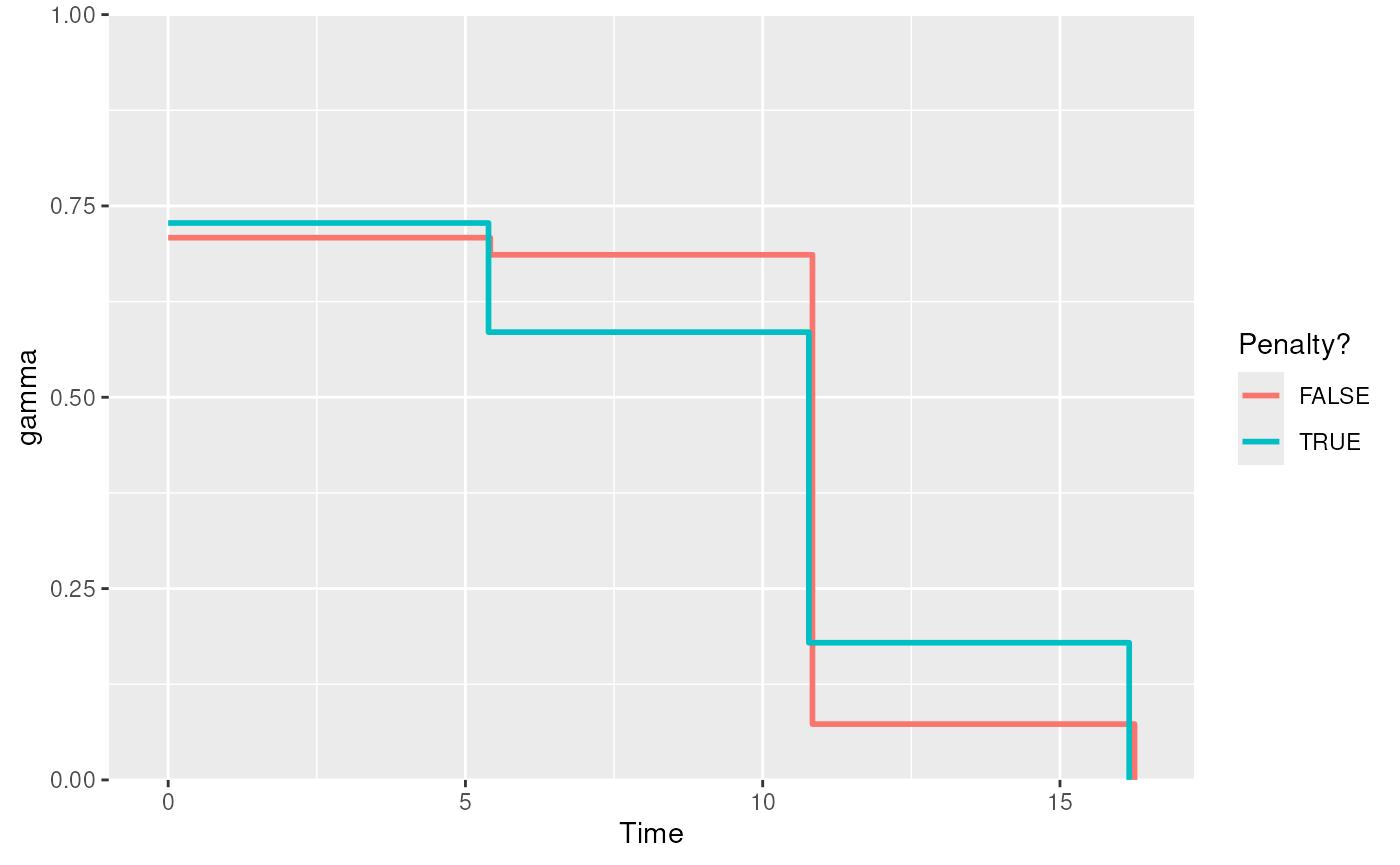
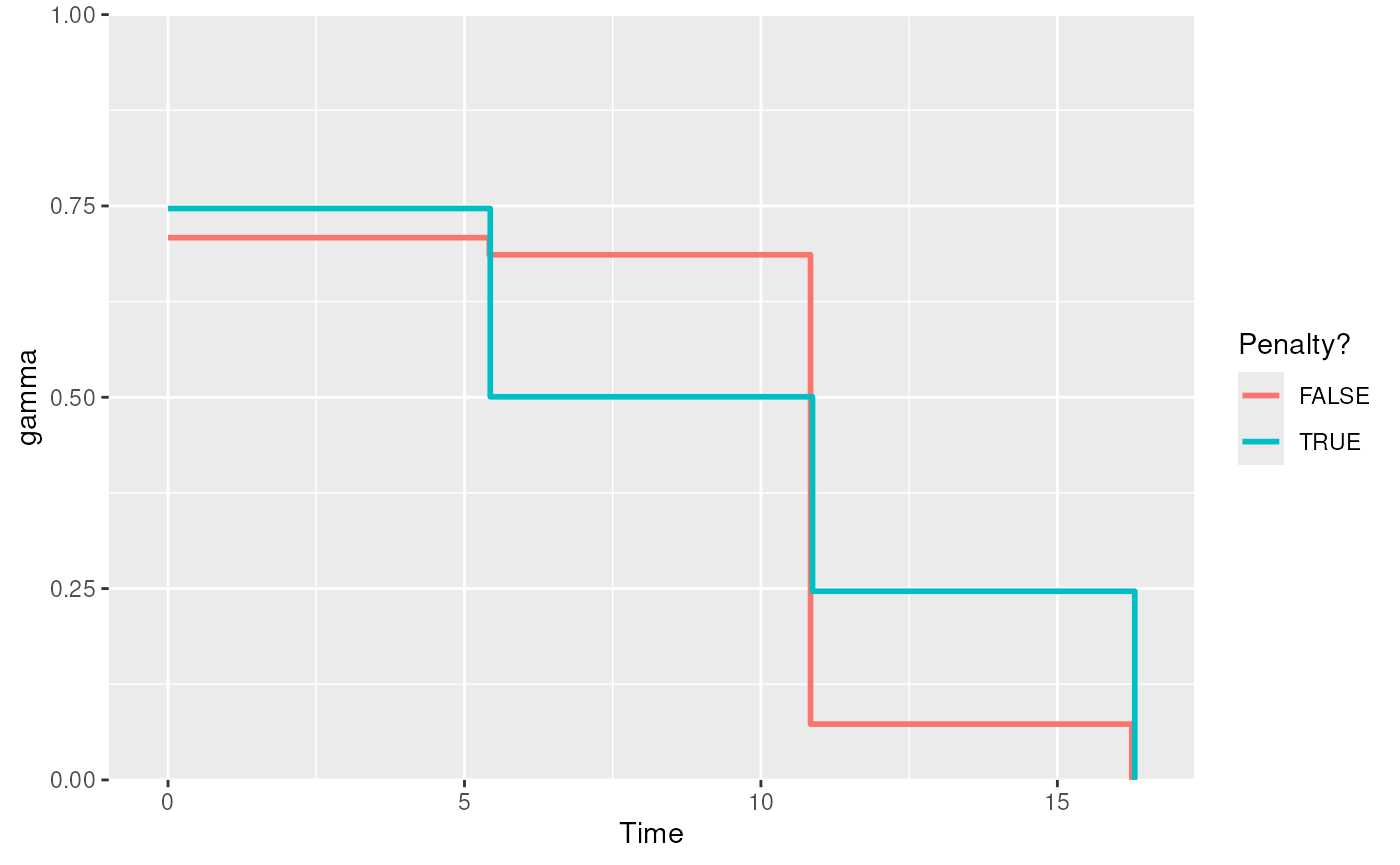
Deploying to gh-pages from @ ssi-dk/diseasy@40000a73c975b4c6fd050a741287bca9cff155ab 🚀

Changed region(s): [[0.1229, 0.2185, 0.8293, 0.9052], [0.7371, 0.9052, 0.7679, 0.9364], [0.5221, 0.9052, 0.5529, 0.9364]]

diff --git a/articles/SEIR-initialisation.html b/articles/SEIR-initialisation.html
@@ -424,16 +424,16 @@ a reduced probability of testing during weekends.</li>
 <span><span class="co">#&gt; <span style="color: #949494;"># A tibble: 1,500 × 6</span></span></span>
 <span><span class="co">#&gt;    date       age_group variant n_infected n_positive_simple n_positive</span></span>
 <span><span class="co">#&gt;    <span style="color: #949494; font-style: italic;">&lt;date&gt;</span>     <span style="color: #949494; font-style: italic;">&lt;chr&gt;</span>     <span style="color: #949494; font-style: italic;">&lt;chr&gt;</span>        <span style="color: #949494; font-style: italic;">&lt;dbl&gt;</span>             <span style="color: #949494; font-style: italic;">&lt;dbl&gt;</span>      <span style="color: #949494; font-style: italic;">&lt;dbl&gt;</span></span></span>
-<span><span class="co">#&gt; <span style="color: #BCBCBC;"> 1</span> 2020-01-03 00-29     WT            68.0                42         42</span></span>
-<span><span class="co">#&gt; <span style="color: #BCBCBC;"> 2</span> 2020-01-04 00-29     WT           145.                 94         69</span></span>
-<span><span class="co">#&gt; <span style="color: #BCBCBC;"> 3</span> 2020-01-05 00-29     WT           191.                122         93</span></span>
-<span><span class="co">#&gt; <span style="color: #BCBCBC;"> 4</span> 2020-01-06 00-29     WT           220.                142        149</span></span>
-<span><span class="co">#&gt; <span style="color: #BCBCBC;"> 5</span> 2020-01-07 00-29     WT           242.                152        163</span></span>
-<span><span class="co">#&gt; <span style="color: #BCBCBC;"> 6</span> 2020-01-08 00-29     WT           265.                169        180</span></span>
-<span><span class="co">#&gt; <span style="color: #BCBCBC;"> 7</span> 2020-01-09 00-29     WT           289.                189        203</span></span>
-<span><span class="co">#&gt; <span style="color: #BCBCBC;"> 8</span> 2020-01-10 00-29     WT           315.                191        207</span></span>
-<span><span class="co">#&gt; <span style="color: #BCBCBC;"> 9</span> 2020-01-11 00-29     WT           343.                231        176</span></span>
-<span><span class="co">#&gt; <span style="color: #BCBCBC;">10</span> 2020-01-12 00-29     WT           374.                236        174</span></span>
+<span><span class="co">#&gt; <span style="color: #BCBCBC;"> 1</span> 2020-01-03 30-59     WT            64.2                37         41</span></span>
+<span><span class="co">#&gt; <span style="color: #BCBCBC;"> 2</span> 2020-01-04 30-59     WT           136.                 85         64</span></span>
+<span><span class="co">#&gt; <span style="color: #BCBCBC;"> 3</span> 2020-01-05 30-59     WT           179.                107         79</span></span>
+<span><span class="co">#&gt; <span style="color: #BCBCBC;"> 4</span> 2020-01-06 30-59     WT           203.                136        138</span></span>
+<span><span class="co">#&gt; <span style="color: #BCBCBC;"> 5</span> 2020-01-07 30-59     WT           221.                137        144</span></span>
+<span><span class="co">#&gt; <span style="color: #BCBCBC;"> 6</span> 2020-01-08 30-59     WT           239.                159        169</span></span>
+<span><span class="co">#&gt; <span style="color: #BCBCBC;"> 7</span> 2020-01-09 30-59     WT           257.                170        181</span></span>
+<span><span class="co">#&gt; <span style="color: #BCBCBC;"> 8</span> 2020-01-10 30-59     WT           278.                188        196</span></span>
+<span><span class="co">#&gt; <span style="color: #BCBCBC;"> 9</span> 2020-01-11 30-59     WT           301.                203        159</span></span>
+<span><span class="co">#&gt; <span style="color: #BCBCBC;">10</span> 2020-01-12 30-59     WT           325.                198        142</span></span>
 <span><span class="co">#&gt; <span style="color: #949494;"># ℹ 1,490 more rows</span></span></span></code></pre></div>
 <div class="sourceCode" id="cb5"><pre class="downlit sourceCode r">
 <code class="sourceCode R"><span><span class="co"># Visualise the example data</span></span>

diff --git a/articles/diseasy-immunity.html b/articles/diseasy-immunity.html
@@ -135,7 +135,7 @@ the following code.</p>
 <span><span class="co">#&gt; $infection</span></span>
 <span><span class="co">#&gt; function (t) </span></span>
 <span><span class="co">#&gt; 1</span></span>
-<span><span class="co">#&gt; &lt;environment: 0x55ce950d4a88&gt;</span></span>
+<span><span class="co">#&gt; &lt;environment: 0x558322ba41d8&gt;</span></span>
 <span><span class="co">#&gt; attr(,"name")</span></span>
 <span><span class="co">#&gt; [1] "no_waning"</span></span></code></pre></div>
 <p>This returns a <code>named list()</code> where the named target are
@@ -173,7 +173,7 @@ given &lt;code&gt;&lt;a href="../reference/DiseasyImmunity.html"&gt;?DiseasyImmu
 <span><span class="co">#&gt; $infection</span></span>
 <span><span class="co">#&gt; function (t) </span></span>
 <span><span class="co">#&gt; exp(-(t - time_scale)/shape)/(1 + exp(-(t - time_scale)/shape))</span></span>
-<span><span class="co">#&gt; &lt;environment: 0x55ce967e4110&gt;</span></span>
+<span><span class="co">#&gt; &lt;environment: 0x5583242a91e0&gt;</span></span>
 <span><span class="co">#&gt; attr(,"name")</span></span>
 <span><span class="co">#&gt; [1] "sigmoidal_waning"</span></span>
 <span><span class="co">#&gt; attr(,"dots")</span></span>
@@ -218,7 +218,7 @@ identification. Default is “custom_waning”.</li>
 <span><span class="co">#&gt; $hospitalisation</span></span>
 <span><span class="co">#&gt; function (t) </span></span>
 <span><span class="co">#&gt; 0.8 * exp(-(t/time_scale)^2) + 0.2</span></span>
-<span><span class="co">#&gt; &lt;environment: 0x55ce975b00f0&gt;</span></span>
+<span><span class="co">#&gt; &lt;environment: 0x558325078e50&gt;</span></span>
 <span><span class="co">#&gt; attr(,"name")</span></span>
 <span><span class="co">#&gt; [1] "gaussian_waning"</span></span>
 <span><span class="co">#&gt; attr(,"dots")</span></span>
@@ -256,8 +256,8 @@ additional arguments.</p>
 <span><span class="co">#&gt; $infection</span></span>
 <span><span class="co">#&gt; function (t) </span></span>
 <span><span class="co">#&gt; exp(-(t - time_scale)/shape)/(1 + exp(-(t - time_scale)/shape))</span></span>
-<span><span class="co">#&gt; &lt;bytecode: 0x55ce989aaae0&gt;</span></span>
-<span><span class="co">#&gt; &lt;environment: 0x55ce984b11b0&gt;</span></span>
+<span><span class="co">#&gt; &lt;bytecode: 0x5583264757c0&gt;</span></span>
+<span><span class="co">#&gt; &lt;environment: 0x558325f7de30&gt;</span></span>
 <span><span class="co">#&gt; attr(,"name")</span></span>
 <span><span class="co">#&gt; [1] "sigmoidal_waning"</span></span>
 <span><span class="co">#&gt; attr(,"dots")</span></span>
@@ -275,7 +275,7 @@ additional arguments.</p>
 <span><span class="co">#&gt; $hospitalisation</span></span>
 <span><span class="co">#&gt; function (t) </span></span>
 <span><span class="co">#&gt; 0.8 * exp(-(t/time_scale)^2) + 0.2</span></span>
-<span><span class="co">#&gt; &lt;environment: 0x55ce99151298&gt;</span></span>
+<span><span class="co">#&gt; &lt;environment: 0x558326c1bd18&gt;</span></span>
 <span><span class="co">#&gt; attr(,"name")</span></span>
 <span><span class="co">#&gt; [1] "gaussian_waning"</span></span>
 <span><span class="co">#&gt; attr(,"dots")</span></span>
@@ -299,7 +299,7 @@ targets in the current models.</p>
 <span><span class="co">#&gt; $infection</span></span>
 <span><span class="co">#&gt; function (t) </span></span>
 <span><span class="co">#&gt; exp(-(t - time_scale)/shape)/(1 + exp(-(t - time_scale)/shape))</span></span>
-<span><span class="co">#&gt; &lt;environment: 0x55ce984b11b0&gt;</span></span>
+<span><span class="co">#&gt; &lt;environment: 0x558325f7de30&gt;</span></span>
 <span><span class="co">#&gt; attr(,"name")</span></span>
 <span><span class="co">#&gt; [1] "sigmoidal_waning"</span></span>
 <span><span class="co">#&gt; attr(,"dots")</span></span>
@@ -310,7 +310,7 @@ targets in the current models.</p>
 <span><span class="co">#&gt; $hospitalisation</span></span>
 <span><span class="co">#&gt; function (t) </span></span>
 <span><span class="co">#&gt; 0.8 * exp(-(t/time_scale)^2) + 0.2</span></span>
-<span><span class="co">#&gt; &lt;environment: 0x55ce99151298&gt;</span></span>
+<span><span class="co">#&gt; &lt;environment: 0x558326c1bd18&gt;</span></span>
 <span><span class="co">#&gt; attr(,"name")</span></span>
 <span><span class="co">#&gt; [1] "gaussian_waning"</span></span>
 <span><span class="co">#&gt; attr(,"dots")</span></span>
@@ -518,7 +518,7 @@ hospitalisation targets defined earlier, which will be approximated.</p>
 <span><span class="co">#&gt; [1] 0</span></span>
 <span><span class="co">#&gt; </span></span>
 <span><span class="co">#&gt; $execution_time</span></span>
-<span><span class="co">#&gt; [1] "1M 11.1536839008331S"</span></span>
+<span><span class="co">#&gt; [1] "1M 12.2756991386414S"</span></span>
 <span><span class="co">#&gt; </span></span>
 <span><span class="co">#&gt; attr(,"class")</span></span>
 <span><span class="co">#&gt; [1] "ucminf"</span></span>

diff --git a/articles/creating-ensembles.html b/articles/creating-ensembles.html
@@ -194,7 +194,7 @@ instances which we give the class <code>DiseasyEnsemble</code>.</p>
 functions to get a quick overview of the ensemble.</p>
 <div class="sourceCode" id="cb3"><pre class="downlit sourceCode r">
 <code class="sourceCode R"><span><span class="fu"><a href="../reference/print.html">print</a></span><span class="op">(</span><span class="va">ensemble</span><span class="op">)</span></span>
-<span><span class="co">#&gt; DiseasyEnsemble: DiseasyModelG1 (hash: 84525), DiseasyModelG1 (hash: 66f53), DiseasyModelG1 (hash: 962db)</span></span></code></pre></div>
+<span><span class="co">#&gt; DiseasyEnsemble: DiseasyModelG1 (hash: 9ab10), DiseasyModelG1 (hash: 3cc9d), DiseasyModelG1 (hash: 3e2a1)</span></span></code></pre></div>
 <div class="sourceCode" id="cb4"><pre class="downlit sourceCode r">
 <code class="sourceCode R"><span><span class="fu"><a href="https://rdrr.io/r/base/summary.html" class="external-link">summary</a></span><span class="op">(</span><span class="va">ensemble</span><span class="op">)</span></span>
 <span><span class="co">#&gt; DiseasyEnsemble consisting of:</span></span>
@@ -213,12 +213,12 @@ least specify the following:</p>
 <span><span class="co">#&gt; <span style="color: #949494;"># A tibble: 6 × 5</span></span></span>
 <span><span class="co">#&gt;   date       n_positive realisation_id weight model                           </span></span>
 <span><span class="co">#&gt;   <span style="color: #949494; font-style: italic;">&lt;date&gt;</span>          <span style="color: #949494; font-style: italic;">&lt;dbl&gt;</span> <span style="color: #949494; font-style: italic;">&lt;chr&gt;</span>           <span style="color: #949494; font-style: italic;">&lt;dbl&gt;</span> <span style="color: #949494; font-style: italic;">&lt;chr&gt;</span>                           </span></span>
-<span><span class="co">#&gt; <span style="color: #BCBCBC;">1</span> 2021-03-28      <span style="text-decoration: underline;">2</span>132. 1                   1 845255d2f6d1811c1a22e2964695fdb2</span></span>
-<span><span class="co">#&gt; <span style="color: #BCBCBC;">2</span> 2021-03-29      <span style="text-decoration: underline;">1</span>719. 1                   1 845255d2f6d1811c1a22e2964695fdb2</span></span>
-<span><span class="co">#&gt; <span style="color: #BCBCBC;">3</span> 2021-03-30      <span style="text-decoration: underline;">2</span>432. 1                   1 845255d2f6d1811c1a22e2964695fdb2</span></span>
-<span><span class="co">#&gt; <span style="color: #BCBCBC;">4</span> 2021-03-31      <span style="text-decoration: underline;">2</span>555. 1                   1 845255d2f6d1811c1a22e2964695fdb2</span></span>
-<span><span class="co">#&gt; <span style="color: #BCBCBC;">5</span> 2021-04-01      <span style="text-decoration: underline;">2</span>163. 1                   1 845255d2f6d1811c1a22e2964695fdb2</span></span>
-<span><span class="co">#&gt; <span style="color: #BCBCBC;">6</span> 2021-04-02      <span style="text-decoration: underline;">1</span>253. 1                   1 845255d2f6d1811c1a22e2964695fdb2</span></span></code></pre></div>
+<span><span class="co">#&gt; <span style="color: #BCBCBC;">1</span> 2021-03-28      <span style="text-decoration: underline;">2</span>132. 1                   1 9ab104aab393137d26d1c896595457c3</span></span>
+<span><span class="co">#&gt; <span style="color: #BCBCBC;">2</span> 2021-03-29      <span style="text-decoration: underline;">1</span>719. 1                   1 9ab104aab393137d26d1c896595457c3</span></span>
+<span><span class="co">#&gt; <span style="color: #BCBCBC;">3</span> 2021-03-30      <span style="text-decoration: underline;">2</span>432. 1                   1 9ab104aab393137d26d1c896595457c3</span></span>
+<span><span class="co">#&gt; <span style="color: #BCBCBC;">4</span> 2021-03-31      <span style="text-decoration: underline;">2</span>555. 1                   1 9ab104aab393137d26d1c896595457c3</span></span>
+<span><span class="co">#&gt; <span style="color: #BCBCBC;">5</span> 2021-04-01      <span style="text-decoration: underline;">2</span>163. 1                   1 9ab104aab393137d26d1c896595457c3</span></span>
+<span><span class="co">#&gt; <span style="color: #BCBCBC;">6</span> 2021-04-02      <span style="text-decoration: underline;">1</span>253. 1                   1 9ab104aab393137d26d1c896595457c3</span></span></code></pre></div>
 <div class="sourceCode" id="cb6"><pre class="downlit sourceCode r">
 <code class="sourceCode R"><span><span class="fu"><a href="../reference/plot.html">plot</a></span><span class="op">(</span><span class="va">ensemble</span>, observable <span class="op">=</span> <span class="st">"n_positive"</span>, prediction_length <span class="op">=</span> <span class="fl">30</span><span class="op">)</span></span></code></pre></div>
 <p><img src="creating-ensembles_files/figure-html/unnamed-chunk-7-1.png" class="r-plt" alt="Plot of the ensemble predictions. Shaded area is ensemble quantiles with observations as points." width="700"></p>
@@ -297,7 +297,7 @@ parameter settings from before.</p>
 models:</p>
 <div class="sourceCode" id="cb11"><pre class="downlit sourceCode r">
 <code class="sourceCode R"><span><span class="fu"><a href="../reference/print.html">print</a></span><span class="op">(</span><span class="va">ensemble</span><span class="op">)</span></span>
-<span><span class="co">#&gt; DiseasyEnsemble: DiseasyModelG0 (hash: 34d9b), DiseasyModelG0 (hash: 35797), DiseasyModelG0 (hash: 50f16), DiseasyModelG1 (hash: 84525), DiseasyModelG1 (hash: 66f53)</span></span></code></pre></div>
+<span><span class="co">#&gt; DiseasyEnsemble: DiseasyModelG0 (hash: f06a8), DiseasyModelG0 (hash: 5a717), DiseasyModelG0 (hash: bc708), DiseasyModelG1 (hash: 9ab10), DiseasyModelG1 (hash: 3cc9d)</span></span></code></pre></div>
 <div class="sourceCode" id="cb12"><pre class="downlit sourceCode r">
 <code class="sourceCode R"><span><span class="fu"><a href="https://rdrr.io/r/base/summary.html" class="external-link">summary</a></span><span class="op">(</span><span class="va">ensemble</span><span class="op">)</span></span>
 <span><span class="co">#&gt; DiseasyEnsemble consisting of:</span></span>

diff --git a/articles/SEIR-implementation.html b/articles/SEIR-implementation.html
@@ -860,11 +860,11 @@ demographic groups and one variant.</p>
 <span>  check <span class="op">=</span> <span class="st">"equal"</span>, times <span class="op">=</span> <span class="fl">1000L</span></span>
 <span><span class="op">)</span></span>
 <span><span class="co">#&gt; Unit: microseconds</span></span>
-<span><span class="co">#&gt;                expr    min      lq      mean  median      uq      max neval</span></span>
-<span><span class="co">#&gt;      purrr::map_dbl 25.187 27.4260 29.363751 28.4680 29.7655  112.770  1000</span></span>
-<span><span class="co">#&gt;              sapply 12.834 13.4450 14.527211 13.8760 14.7975   42.148  1000</span></span>
-<span><span class="co">#&gt;  sapply - USE.NAMES 12.834 13.4205 16.678962 13.8355 14.7625 2264.416  1000</span></span>
-<span><span class="co">#&gt;              vapply  4.859  5.3300  5.699486  5.5700  5.7910   20.248  1000</span></span></code></pre></div>
+<span><span class="co">#&gt;                expr    min      lq      mean median     uq      max neval</span></span>
+<span><span class="co">#&gt;      purrr::map_dbl 24.586 26.7450 28.615469 27.992 28.884  108.462  1000</span></span>
+<span><span class="co">#&gt;              sapply 12.734 13.2955 14.269691 13.675 14.557   43.551  1000</span></span>
+<span><span class="co">#&gt;  sapply - USE.NAMES 12.753 13.2650 15.871272 13.616 14.507 1757.362  1000</span></span>
+<span><span class="co">#&gt;              vapply  4.809  5.3395  5.720159  5.620  5.841   25.708  1000</span></span></code></pre></div>
 <p>Note, that the best performing function in this case is
 <code><a href="https://rdrr.io/r/base/lapply.html" class="external-link">vapply()</a></code>.</p>
 </div>

diff --git a/reference/DiseasyImmunity.html b/reference/DiseasyImmunity.html
@@ -530,7 +530,7 @@ Number of compartments to be used in the model.</p></dd>
 <span class="r-out co"><span class="r-pr">#&gt;</span> $infection</span>
 <span class="r-out co"><span class="r-pr">#&gt;</span> function (t) </span>
 <span class="r-out co"><span class="r-pr">#&gt;</span> exp(-t/time_scale)</span>
-<span class="r-out co"><span class="r-pr">#&gt;</span> &lt;environment: 0x555d6f3f3228&gt;</span>
+<span class="r-out co"><span class="r-pr">#&gt;</span> &lt;environment: 0x561c9d830a90&gt;</span>
 <span class="r-out co"><span class="r-pr">#&gt;</span> attr(,"name")</span>
 <span class="r-out co"><span class="r-pr">#&gt;</span> [1] "exponential_waning"</span>
 <span class="r-out co"><span class="r-pr">#&gt;</span> attr(,"dots")</span>
@@ -542,7 +542,7 @@ Number of compartments to be used in the model.</p></dd>
 <span class="r-out co"><span class="r-pr">#&gt;</span> $infection</span>
 <span class="r-out co"><span class="r-pr">#&gt;</span> function (t) </span>
 <span class="r-out co"><span class="r-pr">#&gt;</span> exp(-t/time_scale)</span>
-<span class="r-out co"><span class="r-pr">#&gt;</span> &lt;environment: 0x555d6f3f3228&gt;</span>
+<span class="r-out co"><span class="r-pr">#&gt;</span> &lt;environment: 0x561c9d830a90&gt;</span>
 <span class="r-out co"><span class="r-pr">#&gt;</span> attr(,"name")</span>
 <span class="r-out co"><span class="r-pr">#&gt;</span> [1] "exponential_waning"</span>
 <span class="r-out co"><span class="r-pr">#&gt;</span> attr(,"dots")</span>

diff --git a/articles/diseasy-model-ode.html b/articles/diseasy-model-ode.html
@@ -308,7 +308,7 @@ infection:</p>
 <span><span class="co">#&gt; $infection</span></span>
 <span><span class="co">#&gt; function (t) </span></span>
 <span><span class="co">#&gt; exp(-t/time_scale)</span></span>
-<span><span class="co">#&gt; &lt;environment: 0x5595972fbf18&gt;</span></span>
+<span><span class="co">#&gt; &lt;environment: 0x561f067c7b28&gt;</span></span>
 <span><span class="co">#&gt; attr(,"name")</span></span>
 <span><span class="co">#&gt; [1] "exponential_waning"</span></span>
 <span><span class="co">#&gt; attr(,"dots")</span></span>

diff --git a/reference/DiseasyEnsemble-generics.html b/reference/DiseasyEnsemble-generics.html
@@ -176,7 +176,7 @@ date, stratification and model (optional).</p>
 <span class="r-in"><span>  <span class="op">)</span></span></span>
 <span class="r-in"><span></span></span>
 <span class="r-in"><span>  <span class="fu"><a href="print.html">print</a></span><span class="op">(</span><span class="va">ensemble</span><span class="op">)</span></span></span>
-<span class="r-out co"><span class="r-pr">#&gt;</span> DiseasyEnsemble: DiseasyModelG0 (hash: ff1e1), DiseasyModelG1 (hash: 37bb9) </span>
+<span class="r-out co"><span class="r-pr">#&gt;</span> DiseasyEnsemble: DiseasyModelG0 (hash: c67d8), DiseasyModelG1 (hash: 112ae) </span>
 <span class="r-in"><span></span></span>
 <span class="r-in"><span>  <span class="fu"><a href="https://rdrr.io/r/base/summary.html" class="external-link">summary</a></span><span class="op">(</span><span class="va">ensemble</span><span class="op">)</span></span></span>
 <span class="r-out co"><span class="r-pr">#&gt;</span> DiseasyEnsemble consisting of:</span>

diff --git a/reference/combineasy.html b/reference/combineasy.html
@@ -120,7 +120,7 @@ The combination of parameters to set in the model instances (generated by <code>
 <span class="r-in"><span>  <span class="op">)</span></span></span>
 <span class="r-in"><span></span></span>
 <span class="r-in"><span>  <span class="fu"><a href="print.html">print</a></span><span class="op">(</span><span class="va">ensemble</span><span class="op">)</span></span></span>
-<span class="r-out co"><span class="r-pr">#&gt;</span> DiseasyEnsemble: DiseasyModelG1 (hash: 4b832) </span>
+<span class="r-out co"><span class="r-pr">#&gt;</span> DiseasyEnsemble: DiseasyModelG1 (hash: 2d69c) </span>
 <span class="r-in"><span></span></span>
 <span class="r-in"><span>  <span class="fu"><a href="https://rdrr.io/r/base/summary.html" class="external-link">summary</a></span><span class="op">(</span><span class="va">ensemble</span><span class="op">)</span></span></span>
 <span class="r-out co"><span class="r-pr">#&gt;</span> DiseasyEnsemble consisting of:</span>

diff --git a/reference/plot.html b/reference/plot.html
@@ -106,7 +106,7 @@ See the <code>$plot()</code> method for each module</p></dd>
 <span class="r-out co"><span class="r-pr">#&gt;</span> $hospitalisation</span>
 <span class="r-out co"><span class="r-pr">#&gt;</span> function (t) </span>
 <span class="r-out co"><span class="r-pr">#&gt;</span> exp(-t/time_scale)</span>
-<span class="r-out co"><span class="r-pr">#&gt;</span> &lt;environment: 0x555d64a43ad8&gt;</span>
+<span class="r-out co"><span class="r-pr">#&gt;</span> &lt;environment: 0x561c94bb0b50&gt;</span>
 <span class="r-out co"><span class="r-pr">#&gt;</span> attr(,"name")</span>
 <span class="r-out co"><span class="r-pr">#&gt;</span> [1] "exponential_waning"</span>
 <span class="r-out co"><span class="r-pr">#&gt;</span> attr(,"dots")</span>